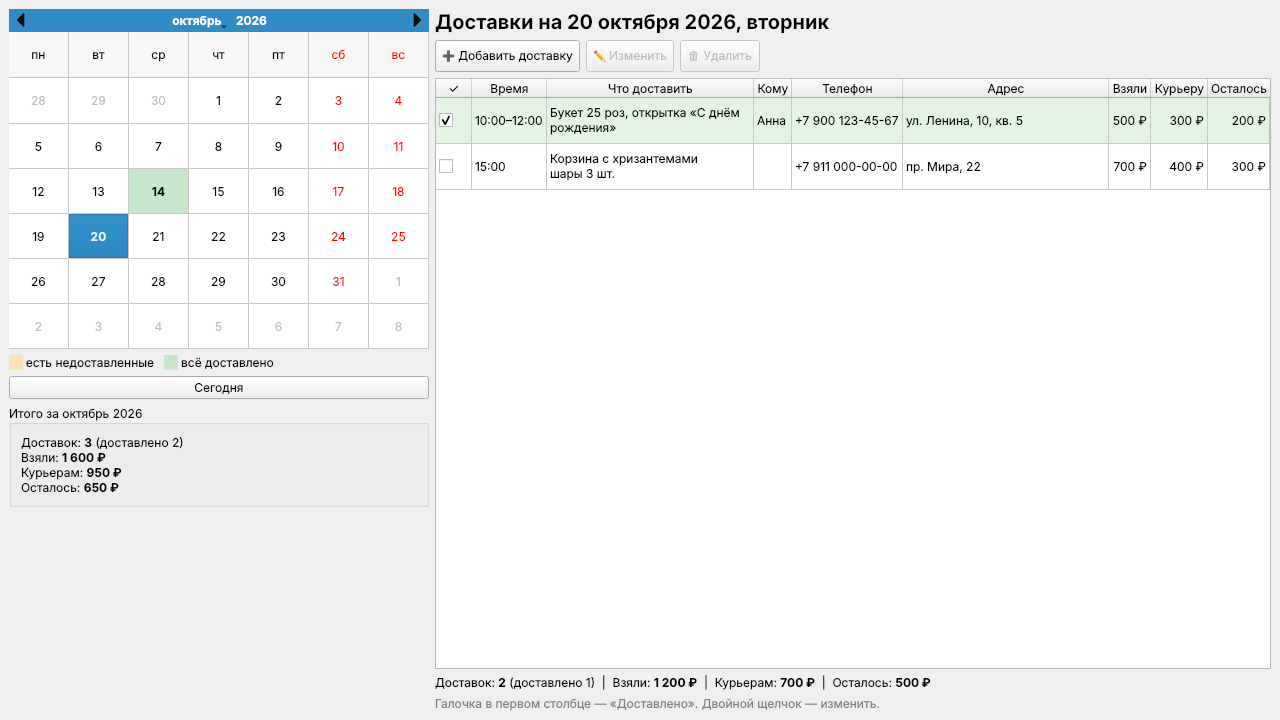
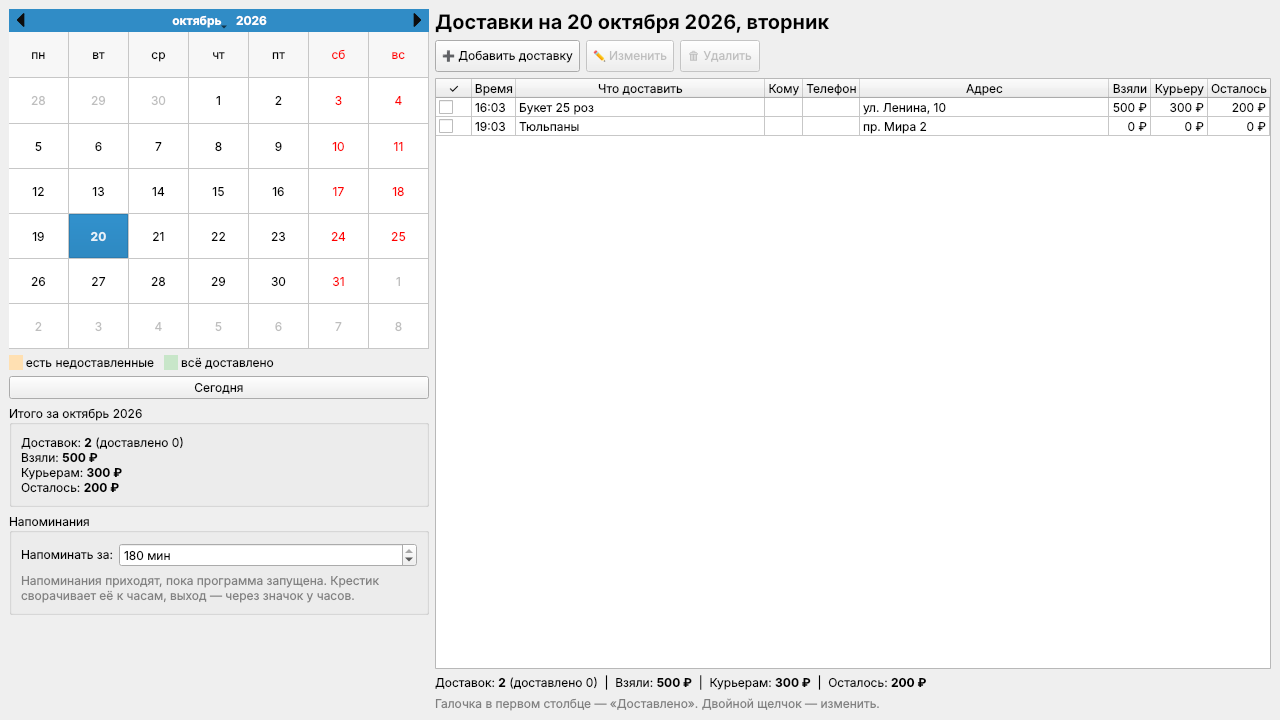
Напоминания о доставках через уведомления Windows
За N минут (по умолчанию 20) до времени доставки показывается
уведомление в трее. Крестик сворачивает программу к часам, чтобы
напоминания продолжали приходить; есть автозапуск с Windows и защита
от запуска второй копии.

Claude-Session: https://claude.ai/code/session_01N8isC27Ckv7WkyKqKzRkjE

diff --git a/app/main_window.py b/app/main_window.py
@@ -1,17 +1,21 @@
 """Главное окно: календарь на месяц и список доставок на выбранный день."""
 
-from datetime import date
+import sys
+from datetime import date, datetime, timedelta
 
-from PySide6.QtCore import QDate, QLocale, Qt
-from PySide6.QtGui import QBrush, QColor, QFont, QKeySequence, QShortcut, QTextCharFormat
+from PySide6.QtCore import QDate, QLocale, QSettings, Qt, QTimer
+from PySide6.QtGui import QAction, QBrush, QColor, QFont, QKeySequence, QShortcut, QTextCharFormat
 from PySide6.QtWidgets import (
-    QAbstractItemView, QCalendarWidget, QGroupBox, QHBoxLayout, QHeaderView,
-    QLabel, QMainWindow, QMessageBox, QPushButton, QTableWidget,
-    QTableWidgetItem, QVBoxLayout, QWidget,
+    QAbstractItemView, QApplication, QCalendarWidget, QCheckBox, QFormLayout,
+    QGroupBox, QHBoxLayout, QHeaderView, QLabel, QMainWindow, QMenu, QMessageBox,
+    QPushButton, QSpinBox, QSystemTrayIcon, QTableWidget, QTableWidgetItem,
+    QVBoxLayout, QWidget,
 )
 
 from .db import Database, Delivery, Totals
 from .delivery_dialog import DeliveryDialog, money
+from .icon import flower_icon
+from .reminders import due_reminders, reminder_key
 
 MONTHS_GENITIVE = [
     "января", "февраля", "марта", "апреля", "мая", "июня",
@@ -27,6 +31,11 @@ HEADERS = ["✓", "Время", "Что доставить", "Кому", "Тел
            "Взяли", "Курьеру", "Осталось"]
 COL_DONE, COL_TIME, COL_ITEMS, COL_RECIPIENT, COL_PHONE, COL_ADDRESS, \
     COL_PRICE, COL_COURIER, COL_REST = range(len(HEADERS))
+
+REMINDER_CHECK_MS = 30_000
+DEFAULT_LEAD_MINUTES = 20
+AUTOSTART_KEY = r"HKEY_CURRENT_USER\Software\Microsoft\Windows\CurrentVersion\Run"
+AUTOSTART_NAME = "FlowerDeliveries"
 
 DELIVERED_BG = QColor("#e3f4e4")
 PENDING_DAY_BG = QColor("#ffe0b2")  # в этот день есть недоставленные
@@ -53,8 +62,14 @@ class MainWindow(QMainWindow):
         self.deliveries: list[Delivery] = []
         self._marked_days: list[QDate] = []
         self._loading = False
+        self._reminded: set = set()
+        self._really_quit = False
+        self._tray_hint_shown = False
+        self._last_reminded_day: date | None = None
+        self.settings = QSettings("FlowerDeliveries", "FlowerDeliveries")
 
         self.setWindowTitle("Доставки цветов")
+        self.setWindowIcon(flower_icon())
         self.resize(1280, 720)
 
         central = QWidget()
@@ -91,6 +106,7 @@ class MainWindow(QMainWindow):
         self.month_label.setWordWrap(True)
         month_layout.addWidget(self.month_label)
         left.addWidget(self.month_box)
+        left.addWidget(self._build_reminder_box())
         left.addStretch(1)
 
         # Правая часть: доставки за день
@@ -145,8 +161,135 @@ class MainWindow(QMainWindow):
         QShortcut(QKeySequence.New, self, activated=self.add_delivery)
         QShortcut(QKeySequence.Delete, self.table, activated=self.delete_delivery)
 
+        self._setup_tray()
+        self.reminder_timer = QTimer(self)
+        self.reminder_timer.timeout.connect(self.check_reminders)
+        self.reminder_timer.start(REMINDER_CHECK_MS)
+
         self.refresh_month()
         self.refresh_day()
+        QTimer.singleShot(2000, self.check_reminders)
+
+    # ----- напоминания и трей -----
+
+    def _build_reminder_box(self) -> QGroupBox:
+        box = QGroupBox("Напоминания")
+        form = QFormLayout(box)
+
+        self.lead_box = QSpinBox()
+        self.lead_box.setRange(1, 180)
+        self.lead_box.setSuffix(" мин")
+        self.lead_box.setValue(int(self.settings.value("lead_minutes", DEFAULT_LEAD_MINUTES)))
+        self.lead_box.valueChanged.connect(self._on_lead_changed)
+        form.addRow("Напоминать за:", self.lead_box)
+
+        self.autostart_check = QCheckBox("Запускать вместе с Windows")
+        self.autostart_check.setVisible(sys.platform == "win32")
+        self.autostart_check.setChecked(self._autostart_enabled())
+        self.autostart_check.toggled.connect(self._set_autostart)
+        form.addRow(self.autostart_check)
+
+        hint = QLabel("Напоминания приходят, пока программа запущена. "
+                      "Крестик сворачивает её к часам, выход — через значок у часов.")
+        hint.setWordWrap(True)
+        hint.setStyleSheet("color: gray")
+        form.addRow(hint)
+        return box
+
+    def _on_lead_changed(self, value: int):
+        self.settings.setValue("lead_minutes", value)
+        self.check_reminders()
+
+    def _autostart_settings(self) -> QSettings:
+        return QSettings(AUTOSTART_KEY, QSettings.NativeFormat)
+
+    def _autostart_enabled(self) -> bool:
+        if sys.platform != "win32":
+            return False
+        return self._autostart_settings().contains(AUTOSTART_NAME)
+
+    def _set_autostart(self, enabled: bool):
+        run = self._autostart_settings()
+        if enabled:
+            run.setValue(AUTOSTART_NAME, f'"{sys.executable}" --minimized'
+                         if getattr(sys, "frozen", False) else f'"{sys.executable}" "{sys.argv[0]}" --minimized')
+        else:
+            run.remove(AUTOSTART_NAME)
+
+    def _setup_tray(self):
+        self.tray = QSystemTrayIcon(flower_icon(), self)
+        self.tray.setToolTip("Доставки цветов")
+        menu = QMenu(self)
+        open_action = QAction("Открыть", self)
+        open_action.triggered.connect(self.show_window)
+        quit_action = QAction("Выход", self)
+        quit_action.triggered.connect(self.quit_app)
+        menu.addAction(open_action)
+        menu.addSeparator()
+        menu.addAction(quit_action)
+        self.tray.setContextMenu(menu)
+        self.tray.activated.connect(self._on_tray_activated)
+        self.tray.messageClicked.connect(self._on_message_clicked)
+        self.tray.show()
+
+    def _on_tray_activated(self, reason):
+        if reason in (QSystemTrayIcon.Trigger, QSystemTrayIcon.DoubleClick):
+            self.show_window()
+
+    def _on_message_clicked(self):
+        self.show_window()
+        if self._last_reminded_day is not None:
+            d = self._last_reminded_day
+            self.calendar.setSelectedDate(QDate(d.year, d.month, d.day))
+
+    def show_window(self):
+        self.showNormal()
+        self.raise_()
+        self.activateWindow()
+        self.refresh_all()
+
+    def quit_app(self):
+        self._really_quit = True
+        self.tray.hide()
+        QApplication.quit()
+
+    def closeEvent(self, event):
+        if self._really_quit or not QSystemTrayIcon.isSystemTrayAvailable():
+            event.accept()
+            QApplication.quit()
+            return
+        event.ignore()
+        self.hide()
+        if not self._tray_hint_shown:
+            self._tray_hint_shown = True
+            self.tray.showMessage(
+                "Доставки цветов",
+                "Программа работает в фоне и напомнит о доставках. "
+                "Выход — правой кнопкой по значку у часов.",
+                QSystemTrayIcon.Information, 5000,
+            )
+
+    def check_reminders(self):
+        now = datetime.now()
+        today = now.date()
+        deliveries = self.db.for_day(today) + self.db.for_day(today + timedelta(days=1))
+        due = due_reminders(deliveries, now, self.lead_box.value(), self._reminded)
+        for d in due:
+            self._reminded.add(reminder_key(d))
+        if not due:
+            return
+
+        lines = []
+        for d in due:
+            what = d.items.splitlines()[0] if d.items else "доставка"
+            line = f"{d.time} — {what}"
+            if d.address:
+                line += f", {d.address}"
+            lines.append(line)
+        title = "Скоро доставка!" if len(due) == 1 else f"Скоро доставки: {len(due)}"
+        self._last_reminded_day = due[0].day
+        self.tray.showMessage(title, "\n".join(lines), QSystemTrayIcon.Warning, 60_000)
+        QApplication.alert(self)
 
     # ----- обновление экрана -----
 

diff --git a/main.py b/main.py
@@ -4,12 +4,26 @@ import os
 import sys
 
 from PySide6.QtCore import QLibraryInfo, QLocale, QStandardPaths, QTranslator
+from PySide6.QtNetwork import QLocalServer, QLocalSocket
 from PySide6.QtWidgets import QApplication, QMessageBox
 
 from app.db import Database
 from app.main_window import MainWindow
 
 APP_FOLDER = "Доставки цветов"
+INSTANCE_NAME = "FlowerDeliveries-single-instance"
+
+
+def notify_running_instance() -> bool:
+    """Если программа уже запущена — попросить её показать окно и вернуть True."""
+    socket = QLocalSocket()
+    socket.connectToServer(INSTANCE_NAME)
+    if not socket.waitForConnected(500):
+        return False
+    socket.write(b"show")
+    socket.waitForBytesWritten(500)
+    socket.disconnectFromServer()
+    return True
 
 
 def data_path() -> str:
@@ -24,6 +38,10 @@ def main():
     app = QApplication(sys.argv)
     app.setApplicationName("Доставки цветов")
     app.setStyle("Fusion")
+    app.setQuitOnLastWindowClosed(False)  # при закрытии окна остаёмся в трее ради напоминаний
+
+    if notify_running_instance():
+        return 0
 
     QLocale.setDefault(QLocale(QLocale.Russian, QLocale.Russia))
     translator = QTranslator()
@@ -37,7 +55,13 @@ def main():
         return 1
 
     window = MainWindow(db)
-    window.show()
+    if "--minimized" not in sys.argv:
+        window.show()
+
+    QLocalServer.removeServer(INSTANCE_NAME)  # остаток после аварийного завершения
+    server = QLocalServer()
+    server.newConnection.connect(lambda: (server.nextPendingConnection(), window.show_window()))
+    server.listen(INSTANCE_NAME)
     code = app.exec()
     db.close()
     return code

diff --git a/app/reminders.py b/app/reminders.py
@@ -1,0 +1,45 @@
+"""Расчёт, о каких доставках пора напомнить."""
+
+import re
+from datetime import datetime, time, timedelta
+
+from .db import Delivery
+
+TIME_RE = re.compile(r"(\d{1,2})\s*[:.\-]\s*(\d{2})")
+HOUR_RE = re.compile(r"\b(\d{1,2})\b")
+
+
+def parse_start_time(text: str) -> time | None:
+    """Время начала доставки из строки: «14:00», «14.30», «14:00–16:00», «к 9»."""
+    m = TIME_RE.search(text)
+    if m:
+        h, mi = int(m.group(1)), int(m.group(2))
+    else:
+        m = HOUR_RE.search(text)
+        if not m:
+            return None
+        h, mi = int(m.group(1)), 0
+    if h > 23 or mi > 59:
+        return None
+    return time(h, mi)
+
+
+def reminder_key(d: Delivery) -> tuple:
+    # Если поменяли дату или время — напомним заново.
+    return (d.id, d.day, d.time)
+
+
+def due_reminders(deliveries: list[Delivery], now: datetime, lead_minutes: int,
+                  already: set) -> list[Delivery]:
+    """Недоставленные доставки, до которых осталось не больше lead_minutes минут."""
+    due = []
+    for d in deliveries:
+        if d.delivered or reminder_key(d) in already:
+            continue
+        start = parse_start_time(d.time)
+        if start is None:
+            continue
+        left = datetime.combine(d.day, start) - now
+        if timedelta(0) <= left <= timedelta(minutes=lead_minutes):
+            due.append(d)
+    return due

diff --git a/tests/test_reminders.py b/tests/test_reminders.py
@@ -1,0 +1,32 @@
+from datetime import date, datetime, time
+
+from app.db import Delivery
+from app.reminders import due_reminders, parse_start_time, reminder_key
+
+
+def test_parse_start_time():
+    assert parse_start_time("14:00") == time(14, 0)
+    assert parse_start_time("9.30") == time(9, 30)
+    assert parse_start_time("14:00–16:00") == time(14, 0)
+    assert parse_start_time("с 10:15 до 12") == time(10, 15)
+    assert parse_start_time("к 9") == time(9, 0)
+    assert parse_start_time("") is None
+    assert parse_start_time("вечером") is None
+    assert parse_start_time("25:00") is None
+
+
+def test_due_reminders():
+    day = date(2026, 10, 20)
+    now = datetime(2026, 10, 20, 13, 45)
+    soon = Delivery(id=1, day=day, time="14:00")
+    later = Delivery(id=2, day=day, time="15:00")
+    past = Delivery(id=3, day=day, time="13:30")
+    done = Delivery(id=4, day=day, time="14:00", delivered=True)
+    no_time = Delivery(id=5, day=day, time="")
+    deliveries = [soon, later, past, done, no_time]
+
+    assert due_reminders(deliveries, now, 20, set()) == [soon]
+    assert due_reminders(deliveries, now, 20, {reminder_key(soon)}) == []
+
+    soon.time = "14:05"  # время поменяли — напоминаем снова
+    assert due_reminders(deliveries, now, 20, {(1, day, "14:00")}) == [soon]

diff --git a/app/icon.py b/app/icon.py
@@ -1,0 +1,28 @@
+"""Значок программы (цветок), рисуется в коде — без отдельных файлов."""
+
+import math
+
+from PySide6.QtCore import QPointF, Qt
+from PySide6.QtGui import QColor, QIcon, QPainter, QPixmap
+
+
+def flower_icon() -> QIcon:
+    icon = QIcon()
+    for size in (16, 24, 32, 48, 64, 128, 256):
+        pix = QPixmap(size, size)
+        pix.fill(Qt.transparent)
+        p = QPainter(pix)
+        p.setRenderHint(QPainter.Antialiasing)
+        p.setPen(Qt.NoPen)
+        c = size / 2
+        petal_r = size * 0.2
+        p.setBrush(QColor("#e91e63"))
+        for i in range(5):
+            a = math.radians(i * 72 - 90)
+            p.drawEllipse(QPointF(c + math.cos(a) * size * 0.25, c + math.sin(a) * size * 0.25),
+                          petal_r, petal_r)
+        p.setBrush(QColor("#ffc107"))
+        p.drawEllipse(QPointF(c, c), size * 0.15, size * 0.15)
+        p.end()
+        icon.addPixmap(pix)
+    return icon

diff --git a/app/delivery_dialog.py b/app/delivery_dialog.py
@@ -43,7 +43,7 @@ class DeliveryDialog(QDialog):
         form.addRow("Дата:", self.date_edit)
 
         self.time_edit = QLineEdit(delivery.time)
-        self.time_edit.setPlaceholderText("например 14:00 или 14:00–16:00")
+        self.time_edit.setPlaceholderText("например 14:00 или 14:00–16:00 (по нему придёт напоминание)")
         form.addRow("Время:", self.time_edit)
 
         self.items_edit = QPlainTextEdit(delivery.items)

diff --git a/README.md b/README.md
@@ -16,6 +16,10 @@
 - Галочка **«Доставлено»** прямо в таблице.
 - Итоги за день и за месяц: количество доставок, сколько взяли, сколько отдали курьерам и сколько осталось.
 
+- **Напоминания.** За 20 минут до доставки (можно поменять) в углу экрана появляется уведомление Windows: время, что везти и адрес. Время берётся из поля «Время» (для «14:00–16:00» — начало, 14:00). О доставленных не напоминает.
+  - Напоминания приходят, пока программа запущена. Крестик не закрывает её, а сворачивает к часам (значок цветка в трее). Полностью выйти — правой кнопкой по значку → «Выход».
+  - Галочка **«Запускать вместе с Windows»** — программа сама стартует при включении компьютера (свёрнутой) и будет напоминать.
+
 Горячие клавиши: `Ctrl+N` — новая доставка, `Delete` — удалить выбранную, двойной щелчок — изменить.
 
 ## Где хранятся данные
